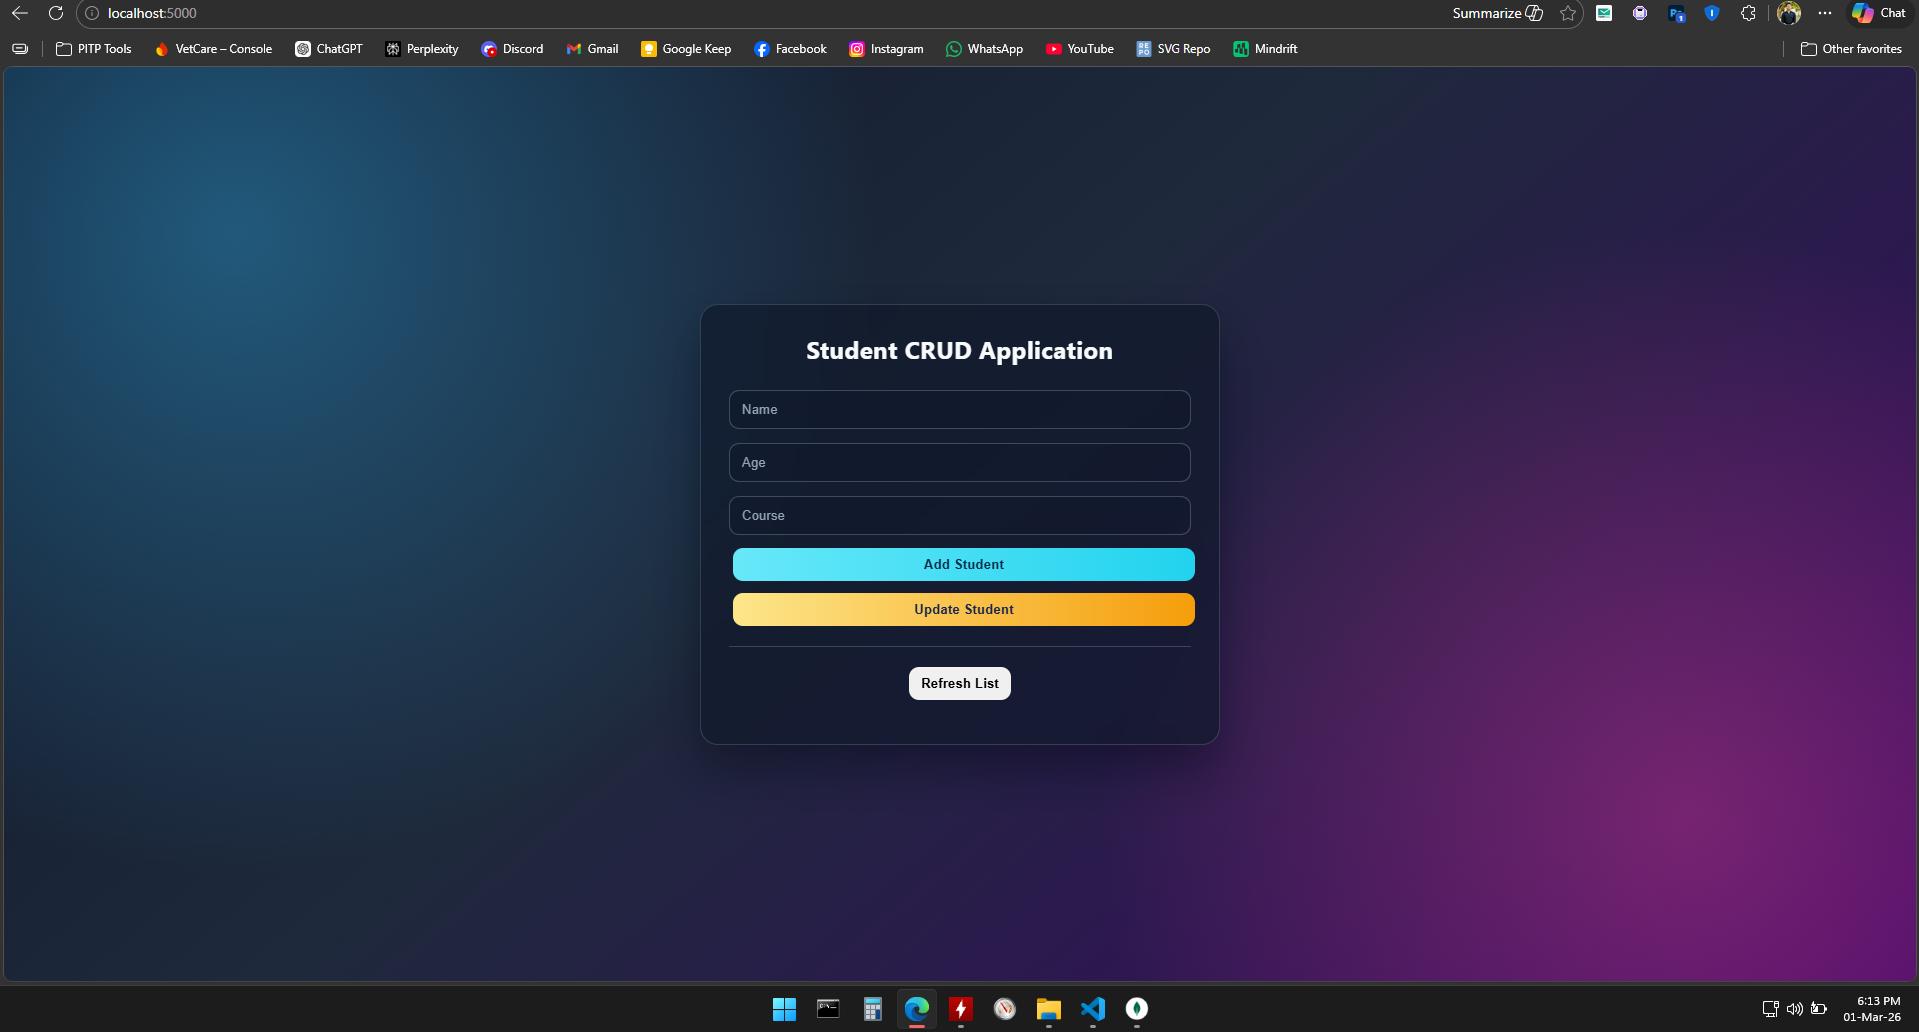
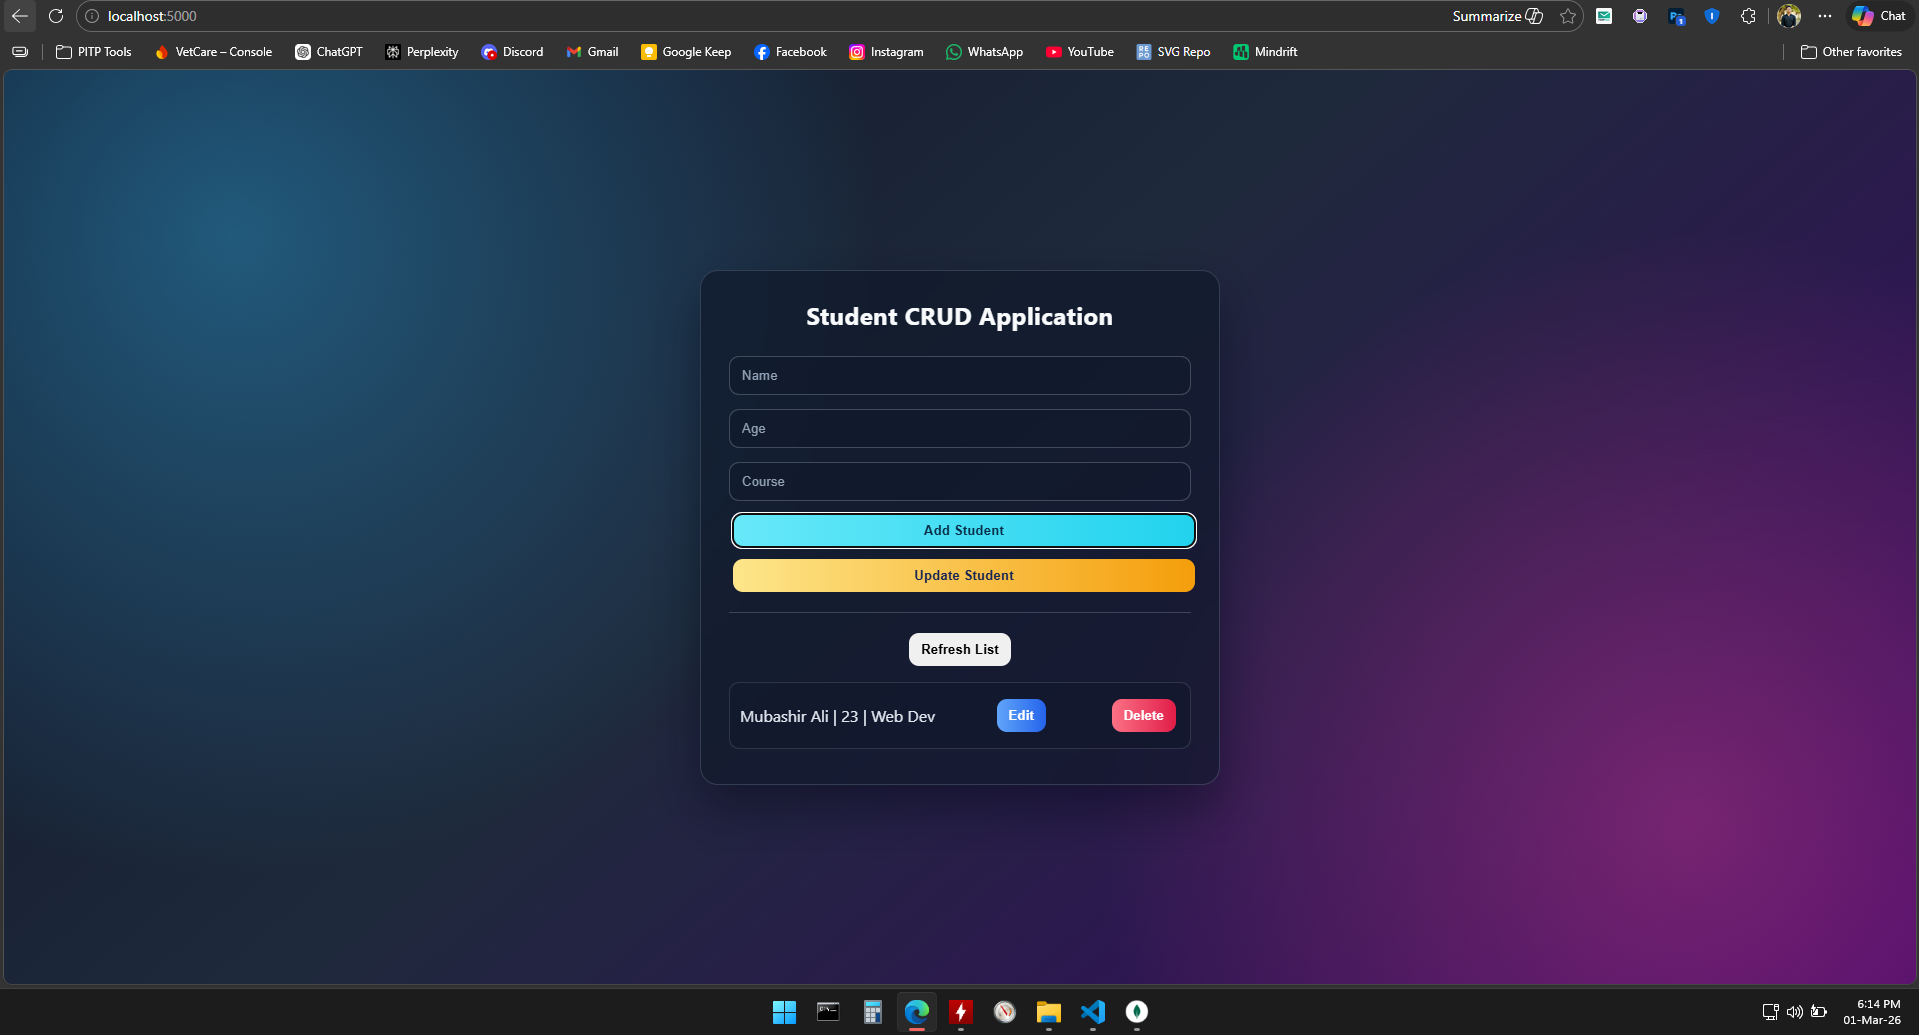
Updated project code

diff --git a/index.html b/index.html
@@ -2,7 +2,77 @@
 <html>
 <head>
     <title>Student CRUD App</title>
-    <link rel="stylesheet" href="styles.css">
+    <style>
+        body {
+            font-family: Arial, sans-serif;
+            background: #f2f2f2;
+            margin: 0;
+            padding: 20px;
+        }
+
+        .container {
+            max-width: 520px;
+            margin: 0 auto;
+            background: #fff;
+            padding: 20px;
+            border-radius: 10px;
+            box-shadow: 0 6px 20px rgba(0, 0, 0, 0.08);
+        }
+
+        h2 {
+            margin-top: 0;
+        }
+
+        input {
+            width: 100%;
+            padding: 10px;
+            margin-bottom: 10px;
+            border: 1px solid #ddd;
+            border-radius: 6px;
+            box-sizing: border-box;
+        }
+
+        button {
+            padding: 10px 14px;
+            border: 0;
+            border-radius: 6px;
+            color: #fff;
+            cursor: pointer;
+            margin-right: 6px;
+            margin-bottom: 8px;
+        }
+
+        .add-btn {
+            background: #198754;
+        }
+
+        .update-btn {
+            background: #0d6efd;
+        }
+
+        .edit-btn {
+            background: #fd7e14;
+            margin-top: 8px;
+            margin-right: 8px;
+        }
+
+        .delete-btn {
+            background: #dc3545;
+            margin-top: 8px;
+        }
+
+        ul {
+            list-style: none;
+            padding: 0;
+        }
+
+        li {
+            border: 1px solid #eee;
+            border-radius: 8px;
+            padding: 10px;
+            margin-bottom: 10px;
+        }
+    </style>
 </head>
 <body>
 
@@ -25,6 +95,105 @@
 
 </div>
 
-<script src="scripts.js"></script>
+<script>
+let selectedId = null;
+
+function addStudent() {
+    let name = document.getElementById("name").value;
+    let age = document.getElementById("age").value;
+    let course = document.getElementById("course").value;
+
+    fetch("/students", {
+        method: "POST",
+        headers: { "Content-Type": "application/json" },
+        body: JSON.stringify({ name, age, course })
+    })
+    .then(function() {
+        clearFields();
+        getStudents();
+    })
+    .catch(function() {
+        alert("Backend is not connected on Vercel yet.");
+    });
+}
+
+function getStudents() {
+    fetch("/students")
+    .then(function(response) {
+        return response.json();
+    })
+    .then(function(data) {
+        var list = document.getElementById("list");
+        list.innerHTML = "";
+
+        data.forEach(function(student) {
+            var li = document.createElement("li");
+
+            li.innerHTML =
+                student.name + " | " +
+                student.age + " | " +
+                student.course +
+                "<br>" +
+                "<button class='edit-btn' onclick='editStudent(\"" + student._id + "\", \"" + student.name + "\", \"" + student.age + "\", \"" + student.course + "\")'>Edit</button>" +
+                "<button class='delete-btn' onclick='deleteStudent(\"" + student._id + "\")'>Delete</button>";
+
+            list.appendChild(li);
+        });
+    })
+    .catch(function() {
+        document.getElementById("list").innerHTML = "<li>Backend is not connected on Vercel yet.</li>";
+    });
+}
+
+function editStudent(id, name, age, course) {
+    selectedId = id;
+    document.getElementById("name").value = name;
+    document.getElementById("age").value = age;
+    document.getElementById("course").value = course;
+}
+
+function updateStudent() {
+    if (selectedId == null) {
+        alert("Please select a student first");
+        return;
+    }
+
+    var name = document.getElementById("name").value;
+    var age = document.getElementById("age").value;
+    var course = document.getElementById("course").value;
+
+    fetch("/students/" + selectedId, {
+        method: "PUT",
+        headers: { "Content-Type": "application/json" },
+        body: JSON.stringify({ name, age, course })
+    })
+    .then(function() {
+        selectedId = null;
+        clearFields();
+        getStudents();
+    })
+    .catch(function() {
+        alert("Backend is not connected on Vercel yet.");
+    });
+}
+
+function deleteStudent(id) {
+    fetch("/students/" + id, { method: "DELETE" })
+    .then(function() {
+        getStudents();
+    })
+    .catch(function() {
+        alert("Backend is not connected on Vercel yet.");
+    });
+}
+
+function clearFields() {
+    document.getElementById("name").value = "";
+    document.getElementById("age").value = "";
+    document.getElementById("course").value = "";
+}
+
+getStudents();
+</script>
 </body>
 </html>
